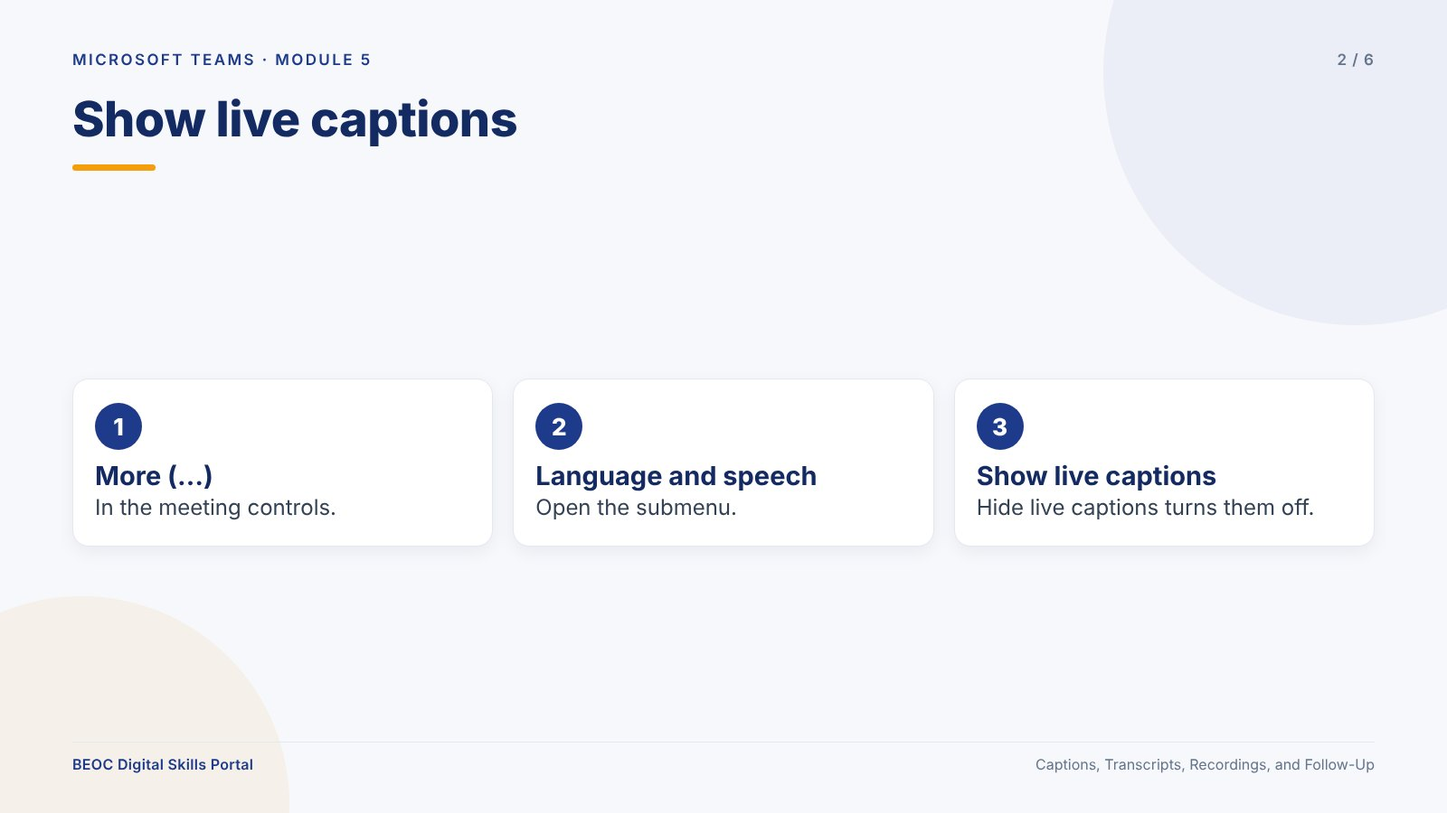
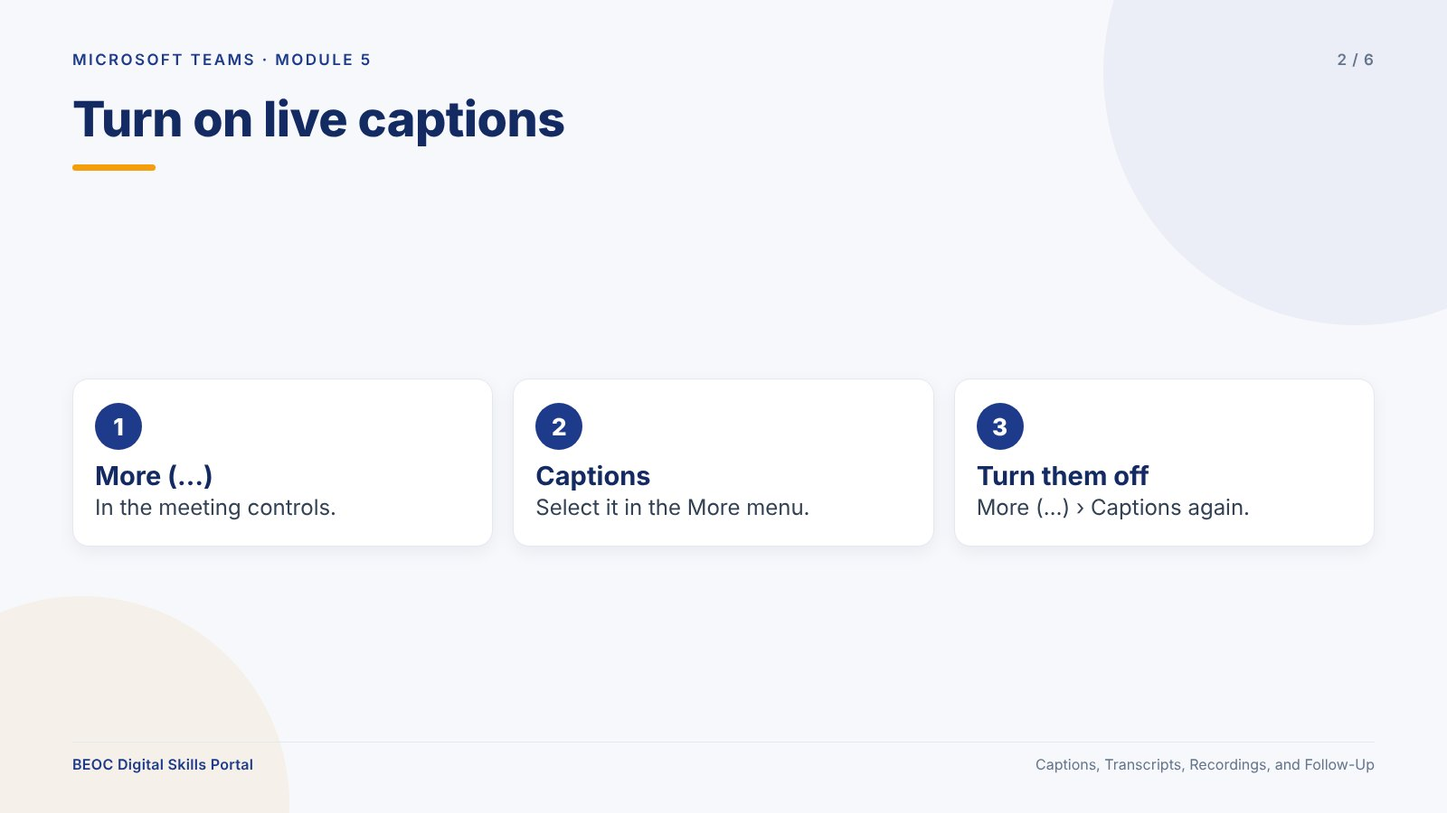
Teams: meeting More menu matches Microsoft's October 2026 docs (Record › Confirm, Recording/Transcribing to stop, Transcribe › Confirm, Captions); stale hints fixed in older Teams sims (New event, left side of Teams, All activity); Approvals and Copilot license notes verified; slides re-rendered
Claude-Session: https://claude.ai/code/session_014ANEAbLYe3jdN98HLeHymF

Changed region(s): [[0.0312, 0.1244, 0.4062, 0.1867], [0.6562, 0.56, 0.9062, 0.6533], [0.375, 0.56, 0.5625, 0.6533]]

diff --git a/components/sim/apps/teams/TeamsMeeting.tsx b/components/sim/apps/teams/TeamsMeeting.tsx
@@ -255,7 +255,7 @@ function InMeeting({ m }: { m: TeamsMeeting }) {
   const key = `meeting:${m.id}`;
   const [panel, setPanel] = useState<"chat" | "people" | "effects" | "devices" | "notes" | null>(null);
   const [shareOpen, setShareOpen] = useState(false);
-  const [confirmRec, setConfirmRec] = useState(false);
+  const [confirmRec, setConfirmRec] = useState<"record" | "transcribe" | null>(null);
   const [note, setNote] = useState("");
   const [bgDraft, setBgDraft] = useState(m.background);
   const [floating, setFloating] = useState<{ k: number; em: string } | null>(null);
@@ -315,14 +315,14 @@ function InMeeting({ m }: { m: TeamsMeeting }) {
     return () => document.removeEventListener("keydown", onKey);
   }, [cmd, key]);
 
+  // More actions, as in Microsoft's Teams meeting docs (October 2026): Record › Confirm starts recording and
+  // transcription; while recording, selecting Recording stops both and Transcribing stops only the transcript.
+  // Transcribe › Confirm starts a transcript without recording. Captions turns live captions on and off.
   const moreMenu = (e: React.MouseEvent<HTMLButtonElement>) => {
     const items: MenuEntry[] = [
-      { heading: true, label: "Record and transcribe" },
-      m.recording ? { label: "Stop recording", icon: "record", onClick: () => cmd(key, "meeting.record", "stop") } : { label: "Start recording", icon: "record", onClick: () => setConfirmRec(true) },
-      m.transcribing ? { label: "Stop transcription", icon: "note", onClick: () => cmd(key, "meeting.transcribe", "stop") } : { label: "Start transcription", icon: "note", onClick: () => cmd(key, "meeting.transcribe", "start") },
-      { separator: true },
-      { heading: true, label: "Language and speech" },
-      m.captions ? { label: "Hide live captions", icon: "cc", onClick: () => cmd(key, "meeting.captions", "off") } : { label: "Show live captions", icon: "cc", onClick: () => cmd(key, "meeting.captions", "on") },
+      m.recording ? { label: "Recording", icon: "record", onClick: () => cmd(key, "meeting.record", "stop") } : { label: "Record", icon: "record", onClick: () => setConfirmRec("record") },
+      m.transcribing ? { label: "Transcribing", icon: "note", onClick: () => cmd(key, "meeting.transcribe", "stop") } : { label: "Transcribe", icon: "note", onClick: () => setConfirmRec("transcribe") },
+      { label: "Captions", icon: "cc", checked: Boolean(m.captions), onClick: () => cmd(key, "meeting.captions", m.captions ? "off" : "on") },
       { separator: true },
       { label: "Video effects and settings", icon: "effects", onClick: () => { setBgDraft(m.background); panelOpen("effects"); } },
       { label: "Audio settings", icon: "speaker", onClick: () => panelOpen("devices") },
@@ -680,20 +680,44 @@ function InMeeting({ m }: { m: TeamsMeeting }) {
         )}
       </div>
       {confirmRec && (
-        <div className="absolute inset-0 z-50 flex items-center justify-center bg-black/50" role="dialog" aria-label="Start recording">
-          <div className="w-[380px] rounded-lg bg-[#292929] p-5 text-[13px] shadow-2xl">
-            <div className="mb-2 text-[16px] font-semibold">Start recording?</div>
-            <p className="mb-4 text-[#d6d6d6]">Everyone in the meeting will be notified that recording and transcription have started. Make sure participants know before you record.</p>
+        <div className="absolute inset-0 z-50 flex items-center justify-center bg-black/50" role="dialog" aria-label={confirmRec === "record" ? "Record" : "Transcribe"}>
+          <div className="w-[400px] rounded-lg bg-[#292929] p-5 text-[13px] shadow-2xl">
+            <div className="mb-2 text-[16px] font-semibold">{confirmRec === "record" ? "Record" : "Transcribe"}</div>
+            <p className="mb-3 text-[#d6d6d6]">
+              {confirmRec === "record"
+                ? "Everyone in the meeting is notified when recording and transcription start. Make sure participants know before you record."
+                : "Everyone in the meeting is notified when transcription starts."}
+            </p>
+            <label className="mb-3 block">
+              <span className="mb-1 block text-[12px] font-semibold text-[#d6d6d6]">Spoken language</span>
+              <select aria-label="Spoken language" defaultValue="English (United States)" className="w-full rounded-[4px] border border-[#5c5c5c] bg-[#1f1f1f] px-2 py-1.5 text-[13px] text-white outline-none">
+                {["English (United States)", "Spanish (United States)", "Chinese (Simplified)", "French (France)"].map((o) => (
+                  <option key={o}>{o}</option>
+                ))}
+              </select>
+            </label>
+            {confirmRec === "record" && (
+              <label className="mb-4 block">
+                <span className="mb-1 block text-[12px] font-semibold text-[#d6d6d6]">Choose what to record</span>
+                <select aria-label="Choose what to record" defaultValue="Audio and video" className="w-full rounded-[4px] border border-[#5c5c5c] bg-[#1f1f1f] px-2 py-1.5 text-[13px] text-white outline-none">
+                  {["Audio and video", "Audio only"].map((o) => (
+                    <option key={o}>{o}</option>
+                  ))}
+                </select>
+              </label>
+            )}
             <div className="flex justify-end gap-2">
-              <button type="button" onClick={() => setConfirmRec(false)} className="rounded-[4px] border border-white/40 px-4 py-1 font-semibold hover:bg-white/10">
+              <button type="button" onClick={() => setConfirmRec(null)} className="rounded-[4px] border border-white/40 px-4 py-1 font-semibold hover:bg-white/10">
                 Cancel
               </button>
               <button
                 type="button"
                 aria-label="Confirm"
                 onClick={() => {
-                  setConfirmRec(false);
-                  cmd(key, "meeting.record", "start");
+                  const what = confirmRec;
+                  setConfirmRec(null);
+                  if (what === "record") cmd(key, "meeting.record", "start");
+                  else cmd(key, "meeting.transcribe", "start");
                 }}
                 className="rounded-[4px] bg-[#5b5fc7] px-4 py-1 font-semibold hover:bg-[#4f52b2]"
               >

diff --git a/lib/content/ms-office/teams/module5Lessons.ts b/lib/content/ms-office/teams/module5Lessons.ts
@@ -421,8 +421,8 @@ export const teamsModule5Lessons: Lesson[] = [
             ordered: true,
             items: [
               "Tell people first. A short note in the meeting chat (“This meeting will be recorded for staff who can't attend”) is a good habit.",
-              "Select More (…) › Record and transcribe › Start recording, then Confirm. Everyone in the meeting is notified that recording has started.",
-              "To stop, select More (…) › Record and transcribe › Stop recording. Stop transcription stops only the transcript.",
+              "Select More (…) › Record. Check the spoken language and what to record (audio and video, or audio only), then select Confirm. Everyone in the meeting is notified that recording has started, and live transcription starts with it.",
+              "To stop, select More (…) › Recording; this stops the recording and the transcript. Selecting Transcribing stops only the transcript and keeps recording. To get a transcript without a recording, select More (…) › Transcribe › Confirm.",
               "The recording is saved in the organizer's OneDrive for work or school (or SharePoint for a channel meeting) and a link appears in the meeting chat. Your organization may set recordings to expire after a period of time.",
             ],
           },
@@ -443,8 +443,8 @@ export const teamsModule5Lessons: Lesson[] = [
               { move: "Join, then Admit Dana Brooks from the lobby banner.", why: "An outside guest waits in the lobby; admitting her right away keeps the meeting on time." },
               { move: "People › Omar Haddad › More options › Make a presenter. Leave Dana as an attendee.", why: "Omar needs to share the schedule. Dana only needs to talk." },
               { move: "People › Mute all.", why: "Several people are in noisy areas; muting everyone keeps the audio clean. People can unmute to speak." },
-              { move: "Post the recording notice in the meeting chat, then More › Record and transcribe › Start recording › Confirm.", why: "People know before it starts, and Teams notifies everyone too." },
-              { move: "At the end, Stop recording, then the arrow next to Leave › End meeting.", why: "End meeting closes it for everyone, so nobody stays in an empty meeting." },
+              { move: "Post the recording notice in the meeting chat, then More › Record › Confirm.", why: "People know before it starts, and Teams notifies everyone too." },
+              { move: "At the end, More › Recording to stop the recording, then the arrow next to Leave › End meeting.", why: "End meeting closes it for everyone, so nobody stays in an empty meeting." },
             ],
             result: "A meeting that started and ended on time, with a recording everyone knew about.",
             takeaway: "Admit promptly, give the least role needed, announce before recording, and end the meeting for everyone.",
@@ -518,7 +518,7 @@ export const teamsModule5Lessons: Lesson[] = [
     duration: "15 min",
     slides: slides("captions-recordings-and-follow-up", [
       "Captions, transcripts, and recordings",
-      "Show live captions",
+      "Turn on live captions",
       "Captions vs. transcript vs. recording",
       "Meeting notes everyone can see",
       "After the meeting: the meeting chat",
@@ -536,7 +536,7 @@ export const teamsModule5Lessons: Lesson[] = [
           },
           {
             type: "paragraph",
-            text: "Live captions show what people say as text on your screen during a meeting. Turning captions on changes only your own screen. To turn them on, select More (…) › Language and speech › Show live captions. To turn them off, choose Hide live captions. Teams does not save captions; if you need a record, turn on transcription.",
+            text: "Live captions show what people say as text on your screen during a meeting. Turning captions on changes only your own screen. To turn them on, select More (…) › Captions. To turn them off, select More (…) › Captions again. Teams does not save captions; if you need a record, turn on transcription.",
           },
           {
             type: "table",
@@ -587,7 +587,7 @@ export const teamsModule5Lessons: Lesson[] = [
           {
             type: "callout",
             variant: "info",
-            text: "Some organizations also have AI meeting features, such as recap summaries and Copilot in Teams meetings. These need extra licenses (such as a Microsoft 365 Copilot license or Teams Premium), so you may not see them at work. Notes and a written follow-up work everywhere.",
+            text: "Some organizations also have AI meeting features. AI-generated recaps (intelligent recap, such as AI meeting notes and recommended tasks) need a Teams Premium or Microsoft 365 Copilot license, and Copilot in Teams meetings needs a Microsoft 365 Copilot license, so you may not see them at work. Notes and a written follow-up work everywhere.",
           },
         ],
       },

diff --git a/lib/sims/oap/modern-office/teams.ts b/lib/sims/oap/modern-office/teams.ts
@@ -99,7 +99,7 @@ export const teamsSims: Record<string, SimDefinition[]> = {
                 {
                   id: "ch-random",
                   name: "Random",
-                  notifications: "All new posts",
+                  notifications: "All activity",
                   posts: [
                     { id: "m-z1", from: "p-sam", time: "9:30 AM", text: "Who wants to order lunch from the taco place?", replies: [{ id: "m-z1r", from: "p-dana", time: "9:31 AM", text: "Me!" }] },
                     { id: "m-z2", from: "p-alex", time: "9:44 AM", text: "Coffee machine on 3 is fixed 🎉", replies: [] },
@@ -299,7 +299,7 @@ export const teamsSims: Record<string, SimDefinition[]> = {
       tasks: [
         {
           instruction: "Start your first morning by checking Activity. Open Renee Ortiz's mention.",
-          hint: "Select Activity on the left rail, then select Renee Ortiz's mention.",
+          hint: "Select Activity on the left side of Teams, then select Renee Ortiz's mention.",
           steps: [{ action: { kind: "select", target: "activity:a1" } }],
         },
         {
@@ -382,7 +382,7 @@ export const teamsSims: Record<string, SimDefinition[]> = {
       tasks: [
         {
           instruction: "Schedule the client meeting “TOR Tech / Marcus Webb - Q3 Contract Review” with Marcus Webb and Dana Cole on Wednesday, October 21, 2026, from 10:00 AM to 10:45 AM. In the details, type the agenda “1. Contract terms 2. Renewal pricing 3. Next steps.”",
-          hint: "Calendar › New meeting. Type the title, add Marcus Webb and Dana Cole, choose Wed 10/21/2026, 10:00 AM to 10:45 AM, type the agenda in the details box, and select Send.",
+          hint: "Calendar › New event. Type the title, add Marcus Webb and Dana Cole, choose Wed 10/21/2026, 10:00 AM to 10:45 AM, type the agenda in the details box, and select Send.",
           steps: [
             typeAll(
               "schedule",
@@ -393,7 +393,7 @@ export const teamsSims: Record<string, SimDefinition[]> = {
         },
         {
           instruction: "Schedule the internal meeting “Q3 Renewal Prep” with Dana Cole and Sam Patel on Wednesday, October 21, 2026, from 9:30 AM to 10:00 AM, so it ends before the client meeting. Agenda: “1. Pricing options 2. Client history.”",
-          hint: "Calendar › New meeting. Title Q3 Renewal Prep, add Dana Cole and Sam Patel, Wed 10/21/2026, 9:30 AM to 10:00 AM, type the agenda, and select Send.",
+          hint: "Calendar › New event. Title Q3 Renewal Prep, add Dana Cole and Sam Patel, Wed 10/21/2026, 9:30 AM to 10:00 AM, type the agenda, and select Send.",
           steps: [
             typeAll(
               "schedule",
@@ -539,7 +539,7 @@ export const teamsSims: Record<string, SimDefinition[]> = {
         },
         {
           instruction: "Schedule the client-facing meeting “Q3 Contract Review - Marcus Webb” with Marcus Webb and Dana Cole on Thursday, October 22, 2026, from 10:00 AM to 10:45 AM. Agenda: “1. Contract terms 2. Renewal pricing 3. Next steps.”",
-          hint: "Calendar › New meeting. Type the title, add Marcus Webb and Dana Cole, choose Thu 10/22/2026, 10:00 AM to 10:45 AM, type the agenda, and select Send.",
+          hint: "Calendar › New event. Type the title, add Marcus Webb and Dana Cole, choose Thu 10/22/2026, 10:00 AM to 10:45 AM, type the agenda, and select Send.",
           steps: [
             typeAll(
               "schedule",
@@ -555,7 +555,7 @@ export const teamsSims: Record<string, SimDefinition[]> = {
         },
         {
           instruction: "Schedule the internal meeting “Capstone Prep” with Renee Ortiz on Wednesday, October 21, 2026, from 3:00 PM to 3:30 PM. Agenda: “1. Final checks 2. Portfolio review.”",
-          hint: "Calendar › New meeting. Title Capstone Prep, add Renee Ortiz, Wed 10/21/2026, 3:00 PM to 3:30 PM, type the agenda, and select Send.",
+          hint: "Calendar › New event. Title Capstone Prep, add Renee Ortiz, Wed 10/21/2026, 3:00 PM to 3:30 PM, type the agenda, and select Send.",
           steps: [
             typeAll(
               "schedule",

diff --git a/lib/sims/teams/module5.ts b/lib/sims/teams/module5.ts
@@ -352,7 +352,7 @@ export const teamsModule5Sims: Record<string, SimDefinition[]> = {
         },
         {
           instruction: "Turn on live captions.",
-          hint: "More (…) in the meeting controls › Language and speech › Show live captions.",
+          hint: "More (…) in the meeting controls › Captions.",
           steps: [cmd("meeting.captions", "on", "meeting:e-priv", "Turn on captions from the meeting controls.")],
         },
         {
@@ -415,17 +415,17 @@ export const teamsModule5Sims: Record<string, SimDefinition[]> = {
         },
         {
           instruction: "Start recording.",
-          hint: "More (…) › Record and transcribe › Start recording › Confirm.",
+          hint: "More (…) › Record › Confirm.",
           steps: [cmd("meeting.record", "start", "meeting:e-review", "Start the recording from the meeting controls.")],
         },
         {
           instruction: "Turn on live captions.",
-          hint: "More (…) › Language and speech › Show live captions.",
+          hint: "More (…) › Captions.",
           steps: [cmd("meeting.captions", "on", "meeting:e-review", "Turn on captions from the meeting controls.")],
         },
         {
           instruction: "The review is done. Stop recording, then end the meeting for everyone.",
-          hint: "More (…) › Record and transcribe › Stop recording. Then select the arrow next to Leave › End meeting.",
+          hint: "More (…) › Recording (selecting it stops the recording and the transcript). Then select the arrow next to Leave › End meeting.",
           steps: [
             cmd("meeting.record", "stop", "meeting:e-review", "Stop the recording from the meeting controls."),
             cmd("meeting.end", undefined, "meeting:e-review", "End the meeting from the arrow next to Leave."),
@@ -461,7 +461,7 @@ export const teamsModule5Sims: Record<string, SimDefinition[]> = {
         },
         {
           instruction: "Start transcription (without recording).",
-          hint: "More (…) › Record and transcribe › Start transcription.",
+          hint: "More (…) › Transcribe › Confirm.",
           steps: [cmd("meeting.transcribe", "start", "meeting:e-pec", "Start transcription from the meeting controls.")],
         },
         {
@@ -471,7 +471,7 @@ export const teamsModule5Sims: Record<string, SimDefinition[]> = {
         },
         {
           instruction: "Stop transcription and end the meeting for everyone.",
-          hint: "More (…) › Record and transcribe › Stop transcription. Then the arrow next to Leave › End meeting.",
+          hint: "More (…) › Transcribing (selecting it stops the transcript). Then the arrow next to Leave › End meeting.",
           steps: [
             cmd("meeting.transcribe", "stop", "meeting:e-pec", "Stop transcription from the meeting controls."),
             cmd("meeting.end", undefined, "meeting:e-pec", "End the meeting from the arrow next to Leave."),
@@ -513,7 +513,7 @@ export const teamsModule5Sims: Record<string, SimDefinition[]> = {
         },
         {
           instruction: "The front office is noisy. Turn on live captions.",
-          hint: "More (…) › Language and speech › Show live captions.",
+          hint: "More (…) › Captions.",
           steps: [cmd("meeting.captions", "on", "meeting:e-huddle", "Turn on captions from the meeting controls.")],
         },
         {
@@ -557,7 +557,7 @@ export const teamsModule5Sims: Record<string, SimDefinition[]> = {
         },
         {
           instruction: "Join the Front Office Huddle and turn on live captions.",
-          hint: "Calendar › Front Office Huddle › Join › Join now. Then More (…) › Language and speech › Show live captions.",
+          hint: "Calendar › Front Office Huddle › Join › Join now. Then More (…) › Captions.",
           steps: [
             cmd("meeting.joinNow", undefined, "prejoin:e-huddle", "Select Join now on the pre-join screen."),
             cmd("meeting.captions", "on", "meeting:e-huddle", "Turn on captions from the meeting controls."),

diff --git a/lib/content/ms-office/teams/module6Lessons.ts b/lib/content/ms-office/teams/module6Lessons.ts
@@ -222,7 +222,7 @@ export const teamsModule6Lessons: Lesson[] = [
         blocks: [
           {
             type: "paragraph",
-            text: "The Approvals app sends a request to one or more approvers and keeps a record of the request and the answer. Open Approvals, select New approval request, give it a clear name, add the approvers, add the details they need to decide (what, why, and how much), and send it. You can see the status of requests you sent and received in the app. Your organization must have Approvals set up; it relies on Power Automate behind the scenes.",
+            text: "The Approvals app sends a request to one or more approvers and keeps a record of the request and the answer. Open Approvals, select New approval request, give it a clear name, add the approvers, add the details they need to decide (what, why, and how much), and select Send. You can see the status of requests you sent and received in the app. Approvals is available in Teams by default, but your organization can turn it off, and it runs on Power Automate behind the scenes.",
           },
           {
             type: "table",
@@ -254,7 +254,7 @@ export const teamsModule6Lessons: Lesson[] = [
         blocks: [
           {
             type: "paragraph",
-            text: "Some organizations give staff Microsoft 365 Copilot, an AI assistant. In Teams, Copilot Chat appears at the top of your chat list, where you can ask it things like “Catch up on unread chats” or “Draft a message about the new check-in hours.” With a Microsoft 365 Copilot license, Copilot can also help during and after meetings (such as summarizing what was discussed and listing follow-up tasks). Many Copilot meeting features require that license, and some recap features need Teams Premium, so you may not see them at work. Whether you see Copilot at all depends on your organization.",
+            text: "Some organizations turn on Copilot, Microsoft's AI assistant, in Teams. When it is turned on, Copilot appears at the top of Chat, where you can ask it questions or ask it to draft a message. Using Copilot in your chats, meetings, and calls (for example, to summarize what was discussed in a meeting or list follow-up tasks) needs a Microsoft 365 Copilot license. AI meeting recaps (intelligent recap) need a Teams Premium or Microsoft 365 Copilot license. Your organization decides whether you see Copilot and which licenses you have, so you may not see these features at work.",
           },
           {
             type: "callout",
@@ -481,7 +481,7 @@ export const teamsModule6Lessons: Lesson[] = [
               ["Reading long text", "Immersive Reader: read aloud, text size and spacing, line focus, translation", "Point to a message › More options (…) › Immersive Reader"],
               ["Seeing the screen", "Theme (Follow operating system theme, Light, Dark) and high contrast", "Settings and more (…) › Settings › Appearance and accessibility"],
               ["Seeing the screen", "Zoom in and out", "Ctrl+= and Ctrl+-"],
-              ["Hearing meetings", "Live captions", "In a meeting: More (…) › Language and speech › Show live captions"],
+              ["Hearing meetings", "Live captions", "In a meeting: More (…) › Captions"],
               ["Being heard", "Noise suppression", "Settings › Devices"],
               ["Using the keyboard", "Keyboard shortcuts", "Ctrl+. shows them all"],
               ["Using a screen reader", "Support for Windows Narrator, JAWS, and NVDA", "Works with Teams on Windows"],

diff --git a/lib/content/office-assistant/tech-foundations/module7Lessons.ts b/lib/content/office-assistant/tech-foundations/module7Lessons.ts
@@ -359,7 +359,7 @@ export const module7Lessons: Lesson[] = [
             type: "list",
             items: [
               "Joining a scheduled meeting — click the Join button in the Teams calendar or in your Outlook calendar invitation. Depending on the meeting options, you may wait in a lobby until the organizer admits you. Before joining, Teams shows a pre-join screen to check your camera and microphone — use it every time to prevent audio/video problems in the meeting itself.",
-              "Starting an instant meeting — in any Chat or Channel, click the Video Call (camera) or Audio Call (phone) button to start an impromptu meeting with that person or group. This is faster than scheduling a formal meeting for quick consultations.",
+              "Starting an instant meeting — in a chat, select Video call (camera) or Audio call (phone) to call that person or group right away; in a channel, select Meet now. This is faster than scheduling a formal meeting for quick consultations.",
               "Scheduling a Teams meeting — in the Teams calendar, select New event; in Outlook, create a new event and make it a Teams meeting (the new Outlook has a Teams meeting switch; classic Outlook has New Teams Meeting). Add your attendees, set the time, add an agenda to the body, and send. Recipients can join from the Outlook calendar invite or from their Teams calendar.",
               "Meeting features during a call: use the meeting toolbar to mute/unmute (Mic), turn your camera on/off (Camera), share your screen (Share), see the participant list (People), open the meeting chat (Chat), raise your hand (Raise), and send reactions (React). More (…) › Video effects and settings lets you blur your background. The Chat panel in a meeting allows sharing links, files, and written notes without interrupting the spoken conversation.",
             ],
@@ -430,7 +430,7 @@ export const module7Lessons: Lesson[] = [
         items: [
           "Send a private chat message to yourself in Teams (or to a classmate): type a professional message as if checking in about a patient appointment, and @mention the recipient. Screenshot the sent message showing the @mention.",
           "Upload your 'LMA_FileManagementGuide' document (from Module 2) to a Teams channel's Shared tab. Screenshot the Shared tab showing the uploaded document.",
-          "Schedule a 5-minute test Teams meeting with yourself or a classmate. Join it, test your camera and microphone using the preview screen, and take a screenshot of the meeting lobby view before joining.",
+          "Schedule a 5-minute test Teams meeting with yourself or a classmate. Open it, test your camera and microphone on the pre-join screen, and take a screenshot of the pre-join screen before you select Join now.",
           "Find and use the background blur feature in Teams during your test meeting (More (…) › Video effects and settings › Blur). Screenshot the blurred background in the active meeting. This is a professional alternative to a virtual background when your physical background is not ideal.",
           "On a school computer, do this in the Challenge Lab below.",
         ],

diff --git a/lib/sims/oap/tech-foundations/teams.ts b/lib/sims/oap/tech-foundations/teams.ts
@@ -235,7 +235,7 @@ export const teamsSims: Record<string, SimDefinition[]> = {
         },
         {
           instruction: "Start recording the meeting.",
-          hint: "Select More (…) in the meeting toolbar › Record and transcribe › Start recording.",
+          hint: "Select More (…) in the meeting toolbar › Record, then select Confirm.",
           steps: [{ action: { kind: "command", id: "meeting.record", value: "start" }, requires: { selection: "meeting:e2" }, selectHint: "Start the recording from the meeting toolbar." }],
         },
         {
@@ -245,7 +245,7 @@ export const teamsSims: Record<string, SimDefinition[]> = {
         },
         {
           instruction: "Turn on live captions.",
-          hint: "More (…) › Language and speech › Show live captions.",
+          hint: "More (…) › Captions.",
           steps: [{ action: { kind: "command", id: "meeting.captions", value: "on" }, requires: { selection: "meeting:e2" }, selectHint: "Turn on captions from the meeting toolbar." }],
         },
         {
@@ -255,7 +255,7 @@ export const teamsSims: Record<string, SimDefinition[]> = {
         },
         {
           instruction: "The review is finished. Stop recording, then end the meeting for everyone.",
-          hint: "More (…) › Record and transcribe › Stop recording. Then select the arrow next to Leave › End meeting.",
+          hint: "More (…) › Recording (selecting it stops the recording). Then select the arrow next to Leave › End meeting.",
           steps: [
             { action: { kind: "command", id: "meeting.record", value: "stop" }, requires: { selection: "meeting:e2" }, selectHint: "Stop the recording from the meeting toolbar." },
             { action: { kind: "command", id: "meeting.end" }, requires: { selection: "meeting:e2" }, selectHint: "End the meeting from the arrow next to Leave." },
@@ -281,7 +281,7 @@ export const teamsSims: Record<string, SimDefinition[]> = {
       tasks: [
         {
           instruction: "Check your Activity feed and open the mention from Elena Alvarez.",
-          hint: "Select Activity on the left rail, then select Elena Alvarez's mention in the list.",
+          hint: "Select Activity on the left side of Teams, then select Elena Alvarez's mention in the list.",
           steps: [{ action: { kind: "select", target: "activity:a1" } }],
         },
         {

diff --git a/lib/content/office-assistant/tech-foundations/module6Lessons.ts b/lib/content/office-assistant/tech-foundations/module6Lessons.ts
@@ -518,7 +518,7 @@ export const module6Lessons: Lesson[] = [
             type: "list",
             items: [
               "Scheduling a Teams meeting — in the new Outlook, go to Calendar, select New event, and turn on the Teams meeting toggle next to the title; in classic Outlook, create a Meeting and select Teams Meeting. You can also use New event in the Teams calendar. Add attendees, set the date and time, add an agenda, and send. Recipients receive a calendar invitation with a Join button that opens the Teams meeting at the scheduled time.",
-              "Meeting controls during the call — as a host or presenter, you can: Mute all participants (to stop background noise during a presentation), manage the participant list (Participants panel), share your screen (Share > select window or desktop), and record the meeting (Record — with participant notification as required by policy and law).",
+              "Meeting controls during the call — as a host or presenter, you can: mute all participants (to stop background noise during a presentation), manage the participant list (People in Teams, Participants in Zoom), share your screen (Share › choose a window or your screen), and record the meeting (in Teams, More › Record › Confirm; in Zoom, Record), telling participants first as required by policy and law.",
               "Screen sharing — press the Share button in Teams or Zoom to share your entire screen or a specific window. Best practice: share a specific window (not your entire screen) to avoid accidentally showing other open content. Before sharing, close any tabs or windows that should not be visible, and check that no patient records or PHI are open.",
             ],
           },

diff --git a/lib/sims/teams/module6.ts b/lib/sims/teams/module6.ts
@@ -324,7 +324,7 @@ export const teamsModule6Sims: Record<string, SimDefinition[]> = {
         },
         {
           instruction: "Close Settings, join the Front Office Huddle, and turn on live captions.",
-          hint: "Back arrow › Calendar › Front Office Huddle › Join › Join now. Then More (…) › Language and speech › Show live captions.",
+          hint: "Back arrow › Calendar › Front Office Huddle › Join › Join now. Then More (…) › Captions.",
           steps: [cmd("meeting.joinNow", undefined, "prejoin:e-huddle", "Select Join now on the pre-join screen."), cmd("meeting.captions", "on", "meeting:e-huddle", "Turn on captions from the meeting controls.")],
         },
       ],
@@ -353,7 +353,7 @@ export const teamsModule6Sims: Record<string, SimDefinition[]> = {
         },
         {
           instruction: "Join the Front Office Huddle and turn on live captions.",
-          hint: "Calendar › Front Office Huddle › Join › Join now › More (…) › Language and speech › Show live captions.",
+          hint: "Calendar › Front Office Huddle › Join › Join now › More (…) › Captions.",
           steps: [cmd("meeting.joinNow", undefined, "prejoin:e-huddle", "Select Join now on the pre-join screen."), cmd("meeting.captions", "on", "meeting:e-huddle", "Turn on captions from the meeting controls.")],
         },
         {

diff --git a/components/sim/apps/teams/model.ts b/components/sim/apps/teams/model.ts
@@ -793,7 +793,8 @@ export function applyTeams(input: TeamsDoc, c: SimCommit, uiIn: SimUi): { doc: T
     case "meeting.record": {
       const m = meetingFor(doc, sel, "in");
       m.recording = sv.toLowerCase() !== "stop";
-      if (m.recording) m.transcribing = true;
+      // Recording starts live transcription too; selecting Recording to stop ends both (Transcribing stops only the transcript).
+      m.transcribing = m.recording;
       return out();
     }
     case "meeting.transcribe": {
